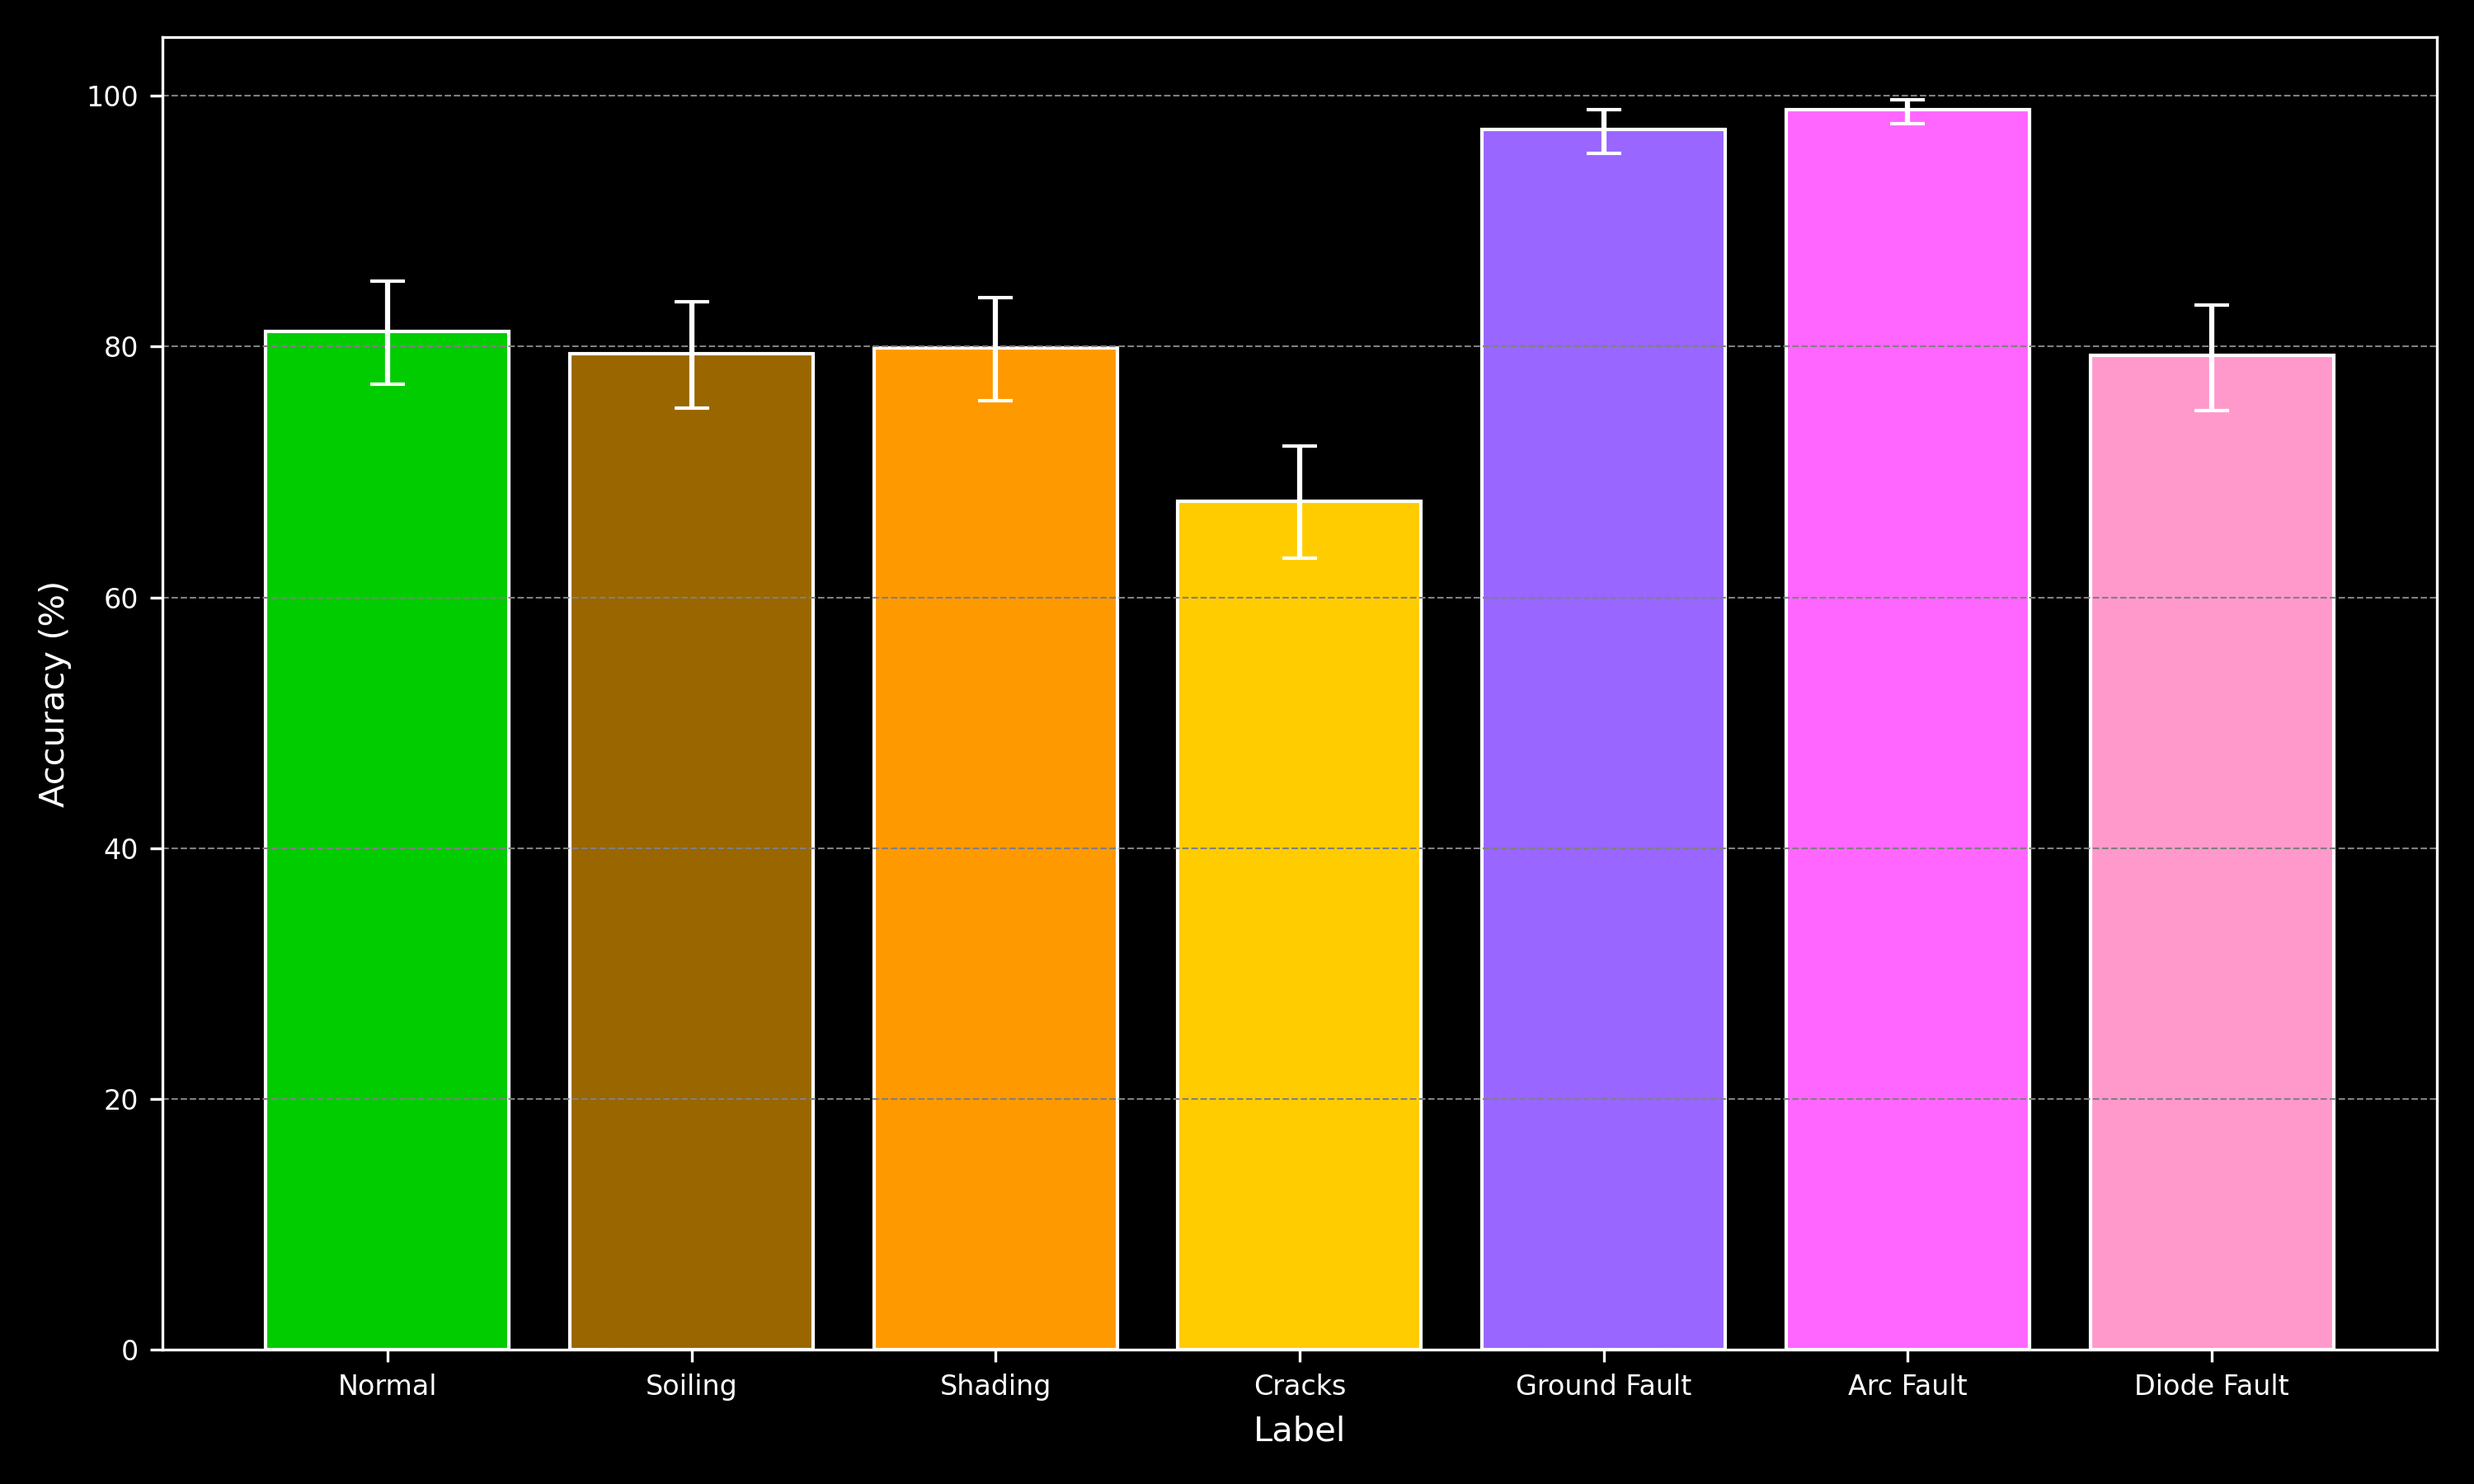
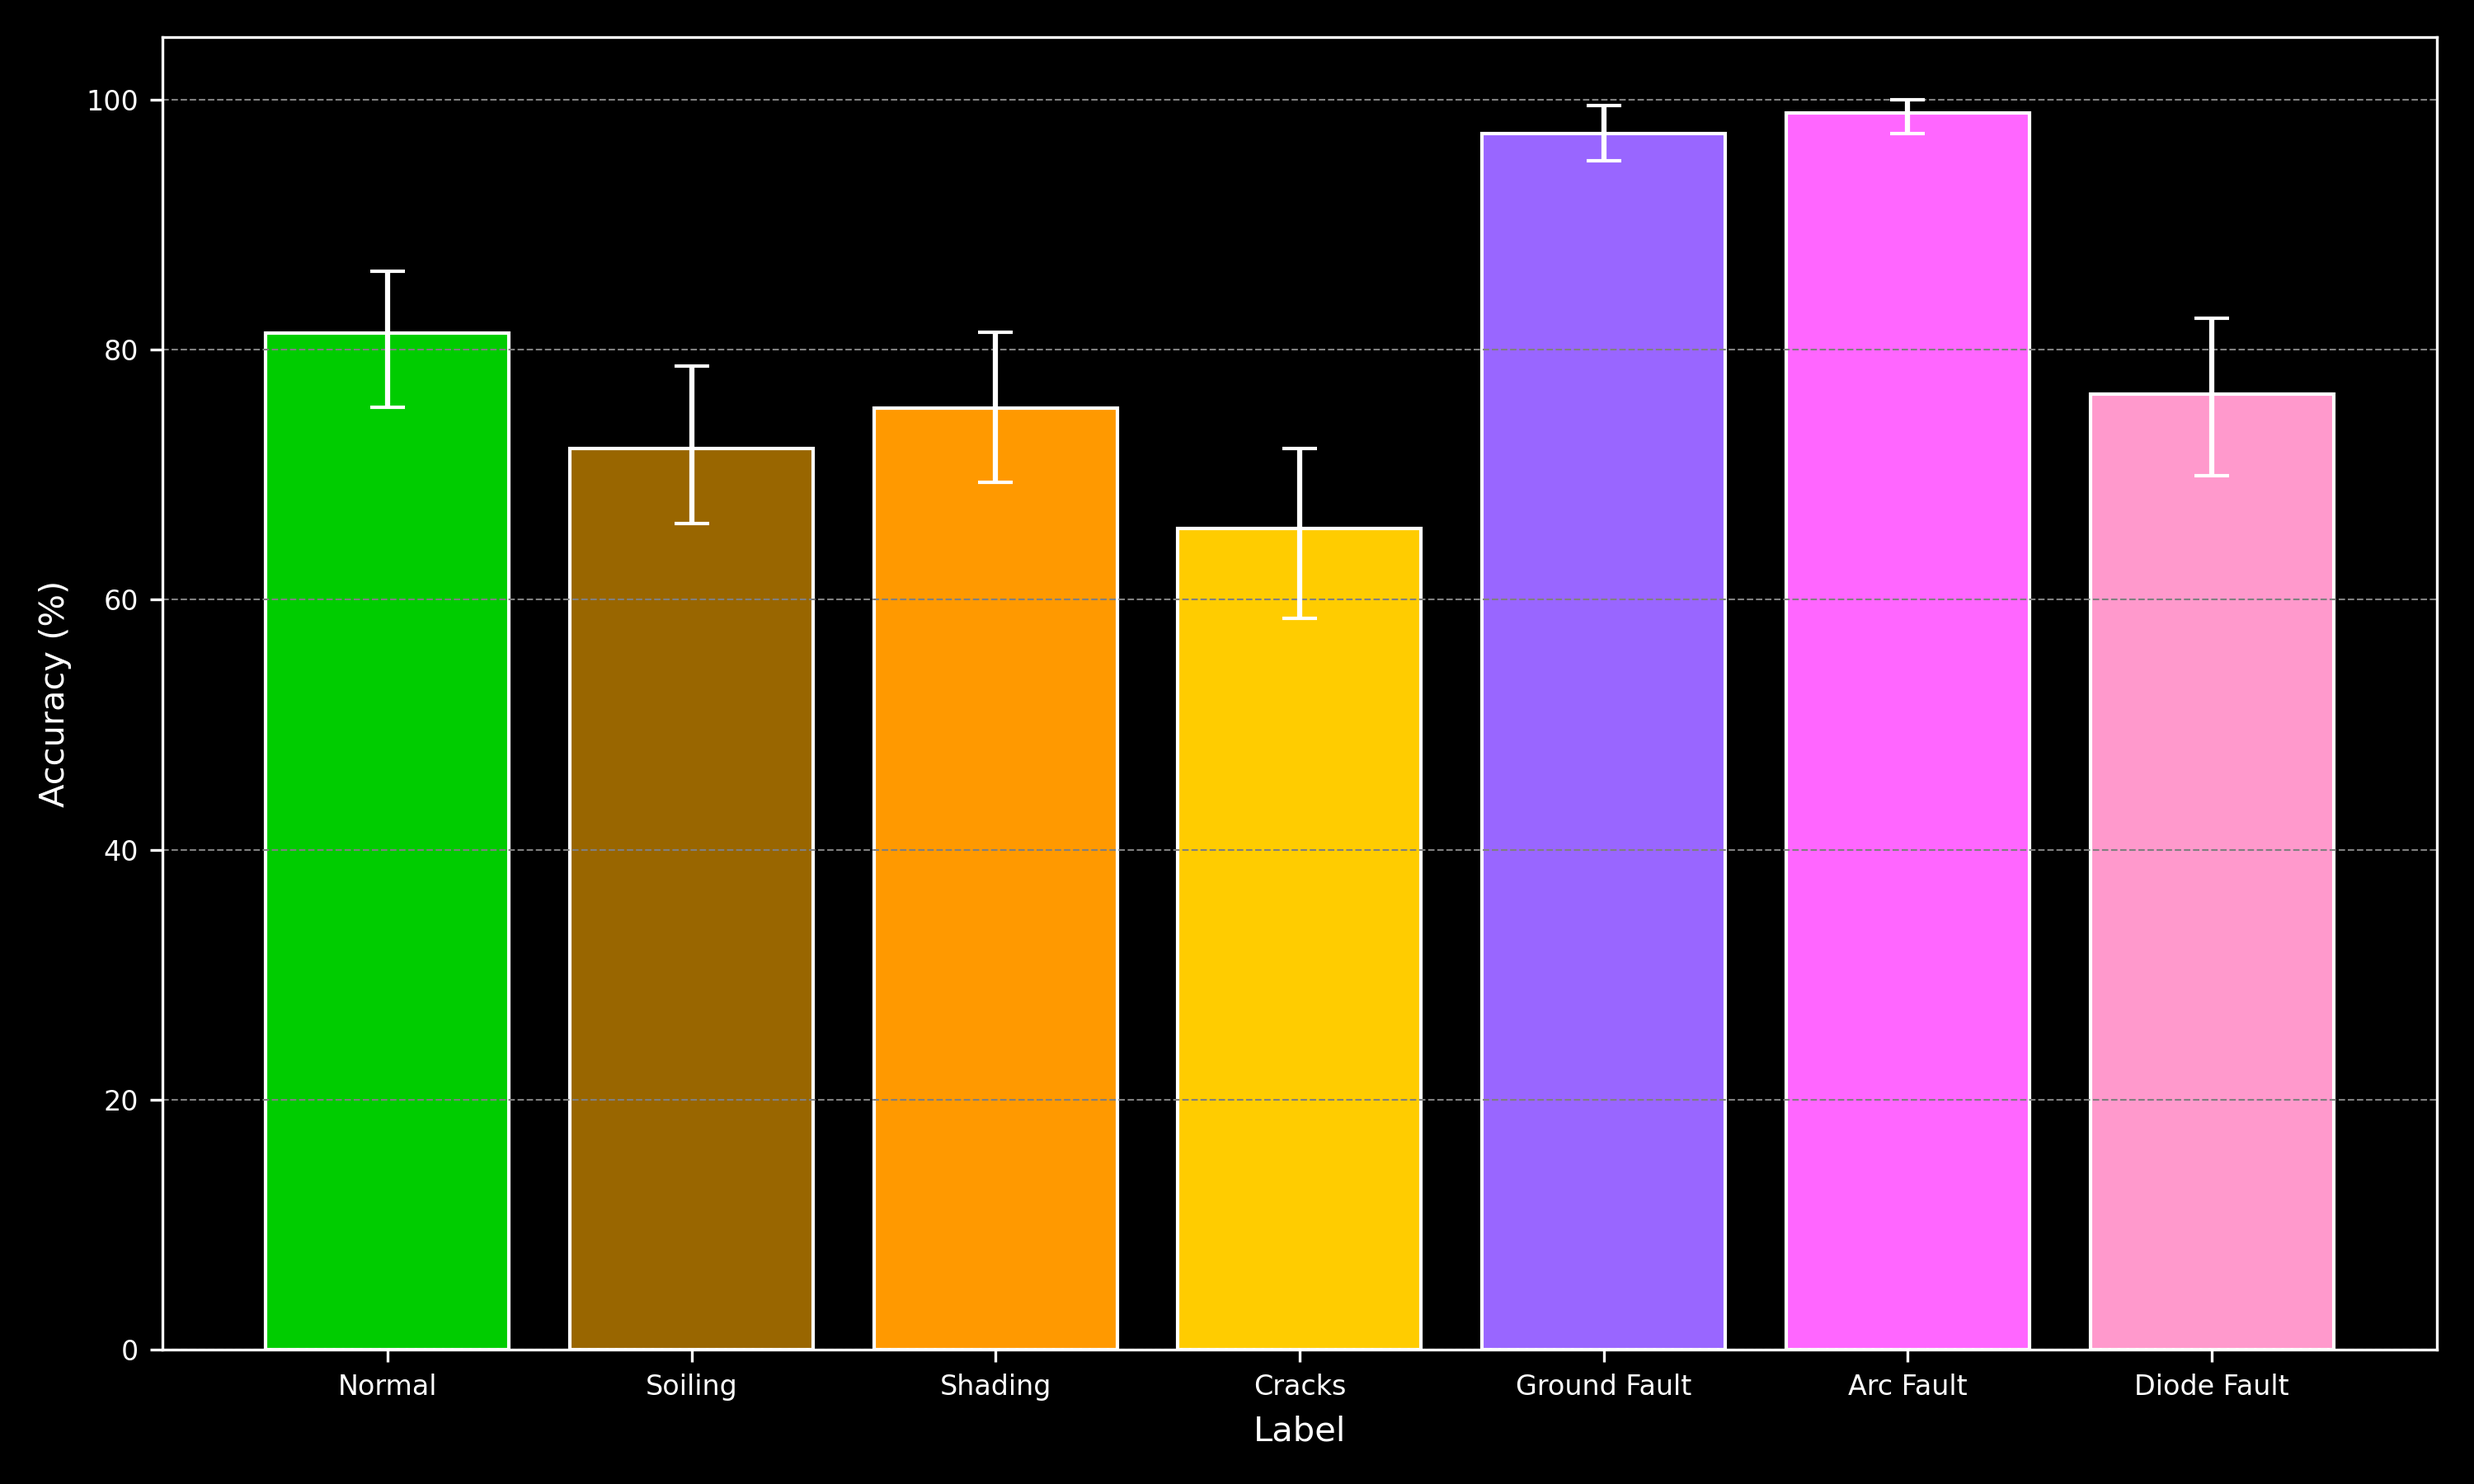
Update

diff --git a/xgboost_classifier.py b/xgboost_classifier.py
@@ -67,6 +67,7 @@ def xgboost_classifier(all_year=False, winter=False):
                 - Feature importance
                 - Precision vs Recall curves
                 - FP vs TP curves
+                - Class-wise accuracy with bootstrap CIs
             - Printed performance summary to console (CV, validation, and test accuracies).
     """
 
@@ -99,6 +100,8 @@ def xgboost_classifier(all_year=False, winter=False):
     auc_test_image_path = f"{IMAGE_FOLDER}/xgb_auc_test_precision_vs_recall_{season_name_file}.png"
     ft_tp_val_image_path = f"{IMAGE_FOLDER}/xgb_fp_tp_curve_val_{season_name_file}.png"
     ft_tp_test_image_path = f"{IMAGE_FOLDER}/xgb_fp_tp_curve_test_{season_name_file}.png"
+    # Bootstrap CI Plot
+    ci_image_path = f"{IMAGE_FOLDER}/xgb_class_accuracy_ci_{season_name_file}.png"
     # Overall Performance
     performance_csv_path = f"{REPORT_FOLDER}/overall_performance.csv"
 
@@ -180,6 +183,7 @@ def xgboost_classifier(all_year=False, winter=False):
         eval_metric='mlogloss',
         n_jobs=-1
     )
+    
     # Stratified K-Fold Cross-Validation ensures balanced class splits
     cv = StratifiedKFold(n_splits=5, shuffle=True, random_state=42)
 
@@ -411,8 +415,36 @@ def xgboost_classifier(all_year=False, winter=False):
     # ==========================================================
     # Run XGBoost Classifier with Bootstrap Confidence Intervals
     # ==========================================================
-    # print("\nCalculating class-wise accuracy with bootstrap confidence intervals...")
-    # xgboost_classifier_bootstrap_ci()
+    print("\nCalculating class-wise accuracy with bootstrap confidence intervals...")
+    
+    # Parameters for bootstrapping
+    n_bootstrap = 1000
+    ci_level = 95
+    
+   # Bootstrapping for class-wise CI
+    classes = sorted(y_test.unique())
+    class_acc_samples = []
+
+    for _ in range(n_bootstrap):
+        print(_)
+        X_res, y_res = resample(X_test, y_test, replace=True, stratify=y_test)
+        y_pred_res = xgb_classifier.predict(X_res)
+        cm_res = confusion_matrix(y_res, y_pred_res, labels=classes)
+        acc_per_class = class_accuracy(cm_res)
+        class_acc_samples.append(acc_per_class)
+
+    class_acc_samples = np.array(class_acc_samples)
+    mean_acc = np.mean(class_acc_samples, axis=0)
+    lower_bounds = np.percentile(class_acc_samples, (100 - ci_level)/2, axis=0)
+    upper_bounds = np.percentile(class_acc_samples, 100 - (100 - ci_level)/2, axis=0)
+
+    # Print results
+    for idx, cls in enumerate(classes):
+        class_name = LABELS_MAP[cls][0]
+        print(f"{class_name}: Accuracy = {mean_acc[idx]:.3f} [{lower_bounds[idx]:.3f} - {upper_bounds[idx]:.3f}] ({ci_level}% CI)")
+
+    # Plot with CI
+    plot_class_accuracy_ci(mean_acc, lower_bounds, upper_bounds, classes, f"Class-wise Accuracy with {ci_level}% CI", ci_image_path)
     
     # ==========================================================
     # Final Performance Summary

diff --git a/plot_training.py b/plot_training.py
@@ -364,6 +364,7 @@ def plot_fp_tp_curve(y_true, y_scores, class_names, output_file):
     # Confirm saving
     print(f"FP vs TP curve saved to {output_file}")
 
+
 def plot_class_accuracy_ci(class_acc, ci_lower, ci_upper, classes, title, output_file):
     """
         Plot per-class accuracy as vertical bars with bootstrap confidence intervals in dark theme.
@@ -412,3 +413,4 @@ def plot_class_accuracy_ci(class_acc, ci_lower, ci_upper, classes, title, output
     plt.savefig(output_file, dpi=300, facecolor=fig.get_facecolor())
     plt.close()
     print(f"Class Accuracy plot saved to {output_file}")
+    
